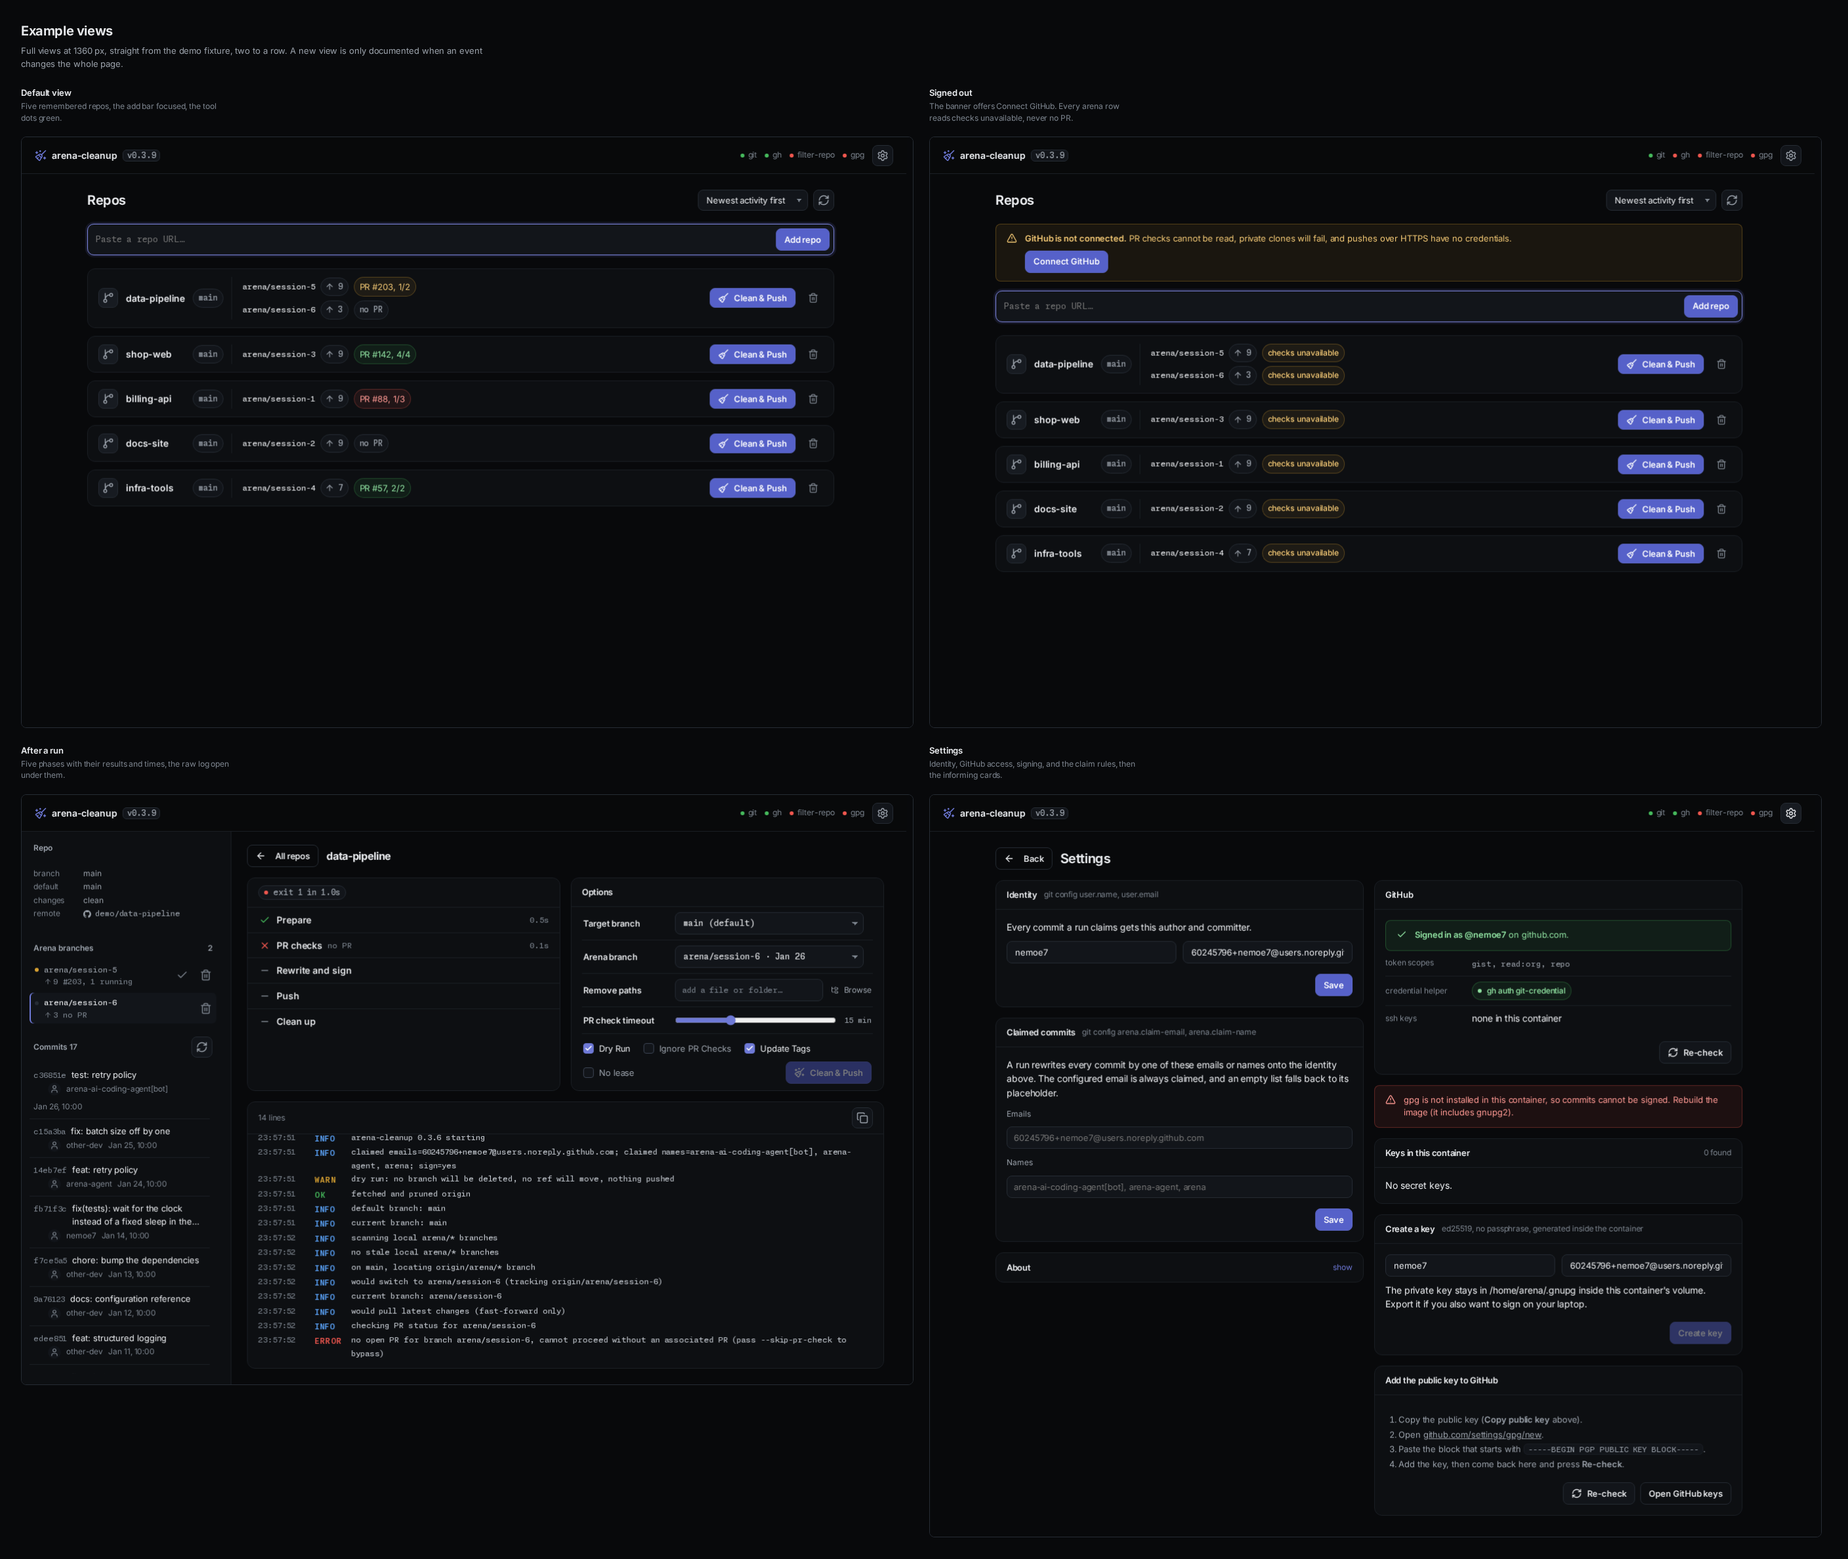
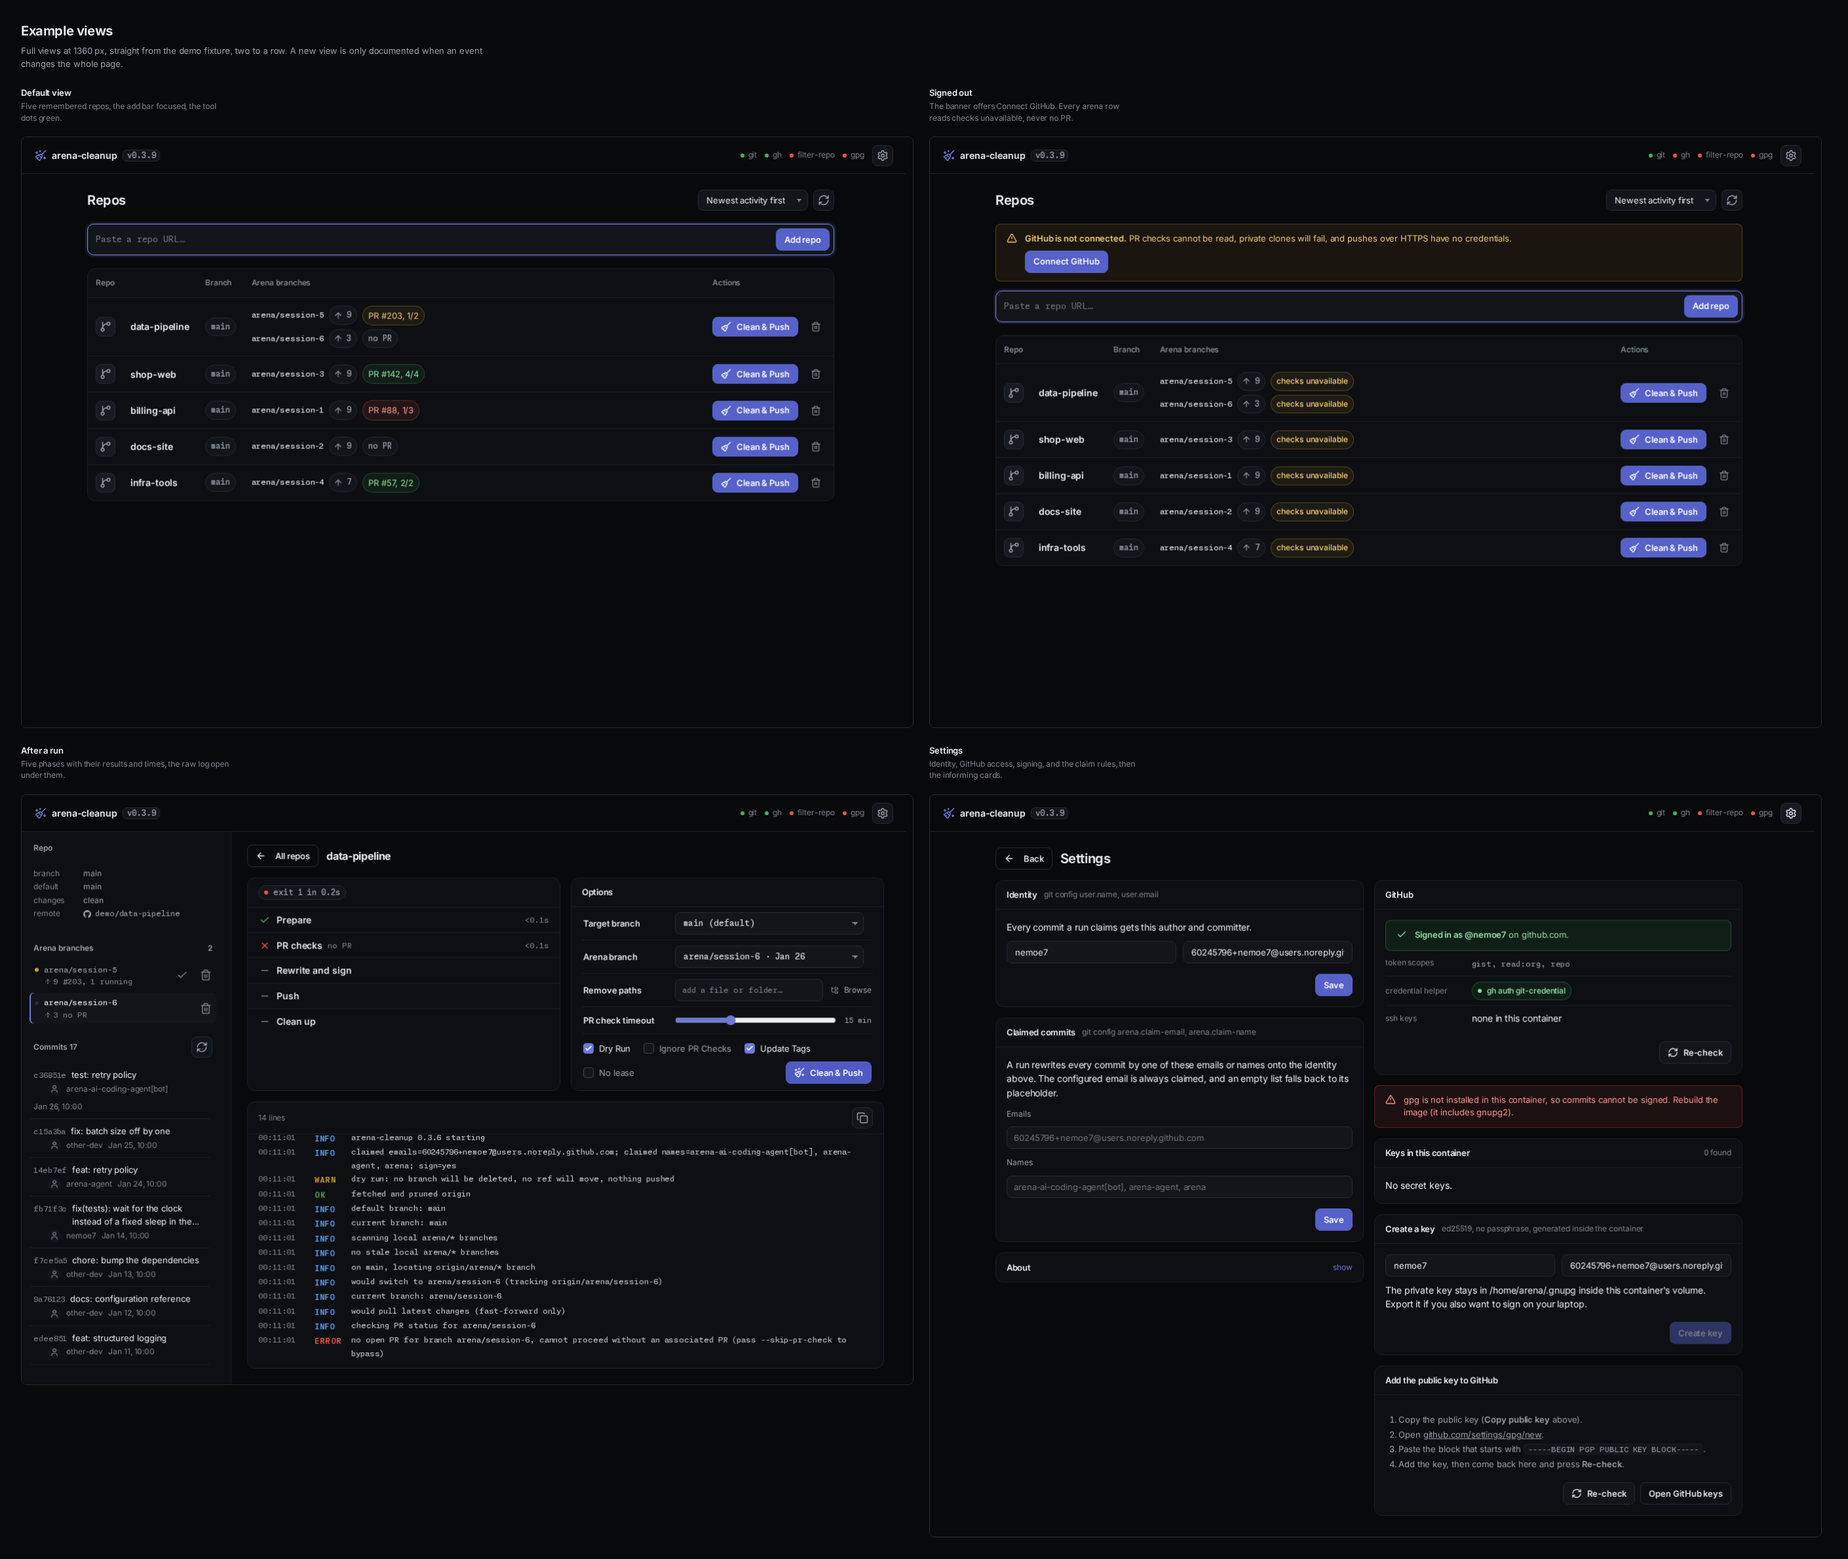
feat(ui): show the repos as a table above 1200 px

diff --git a/ui/static/index.html b/ui/static/index.html
@@ -324,29 +324,34 @@
   .mono-field { font-family: var(--mono); font-size: var(--fs-2); }
   select.field { appearance: none; background-image: linear-gradient(45deg, transparent 50%, var(--dim) 50%), linear-gradient(135deg, var(--dim) 50%, transparent 50%); background-position: right 12px center, right 8px center; background-size: 5px 5px, 5px 5px; background-repeat: no-repeat; padding-right: 24px; }
 
-  /* above 1200 a repo is one row on shared columns: the icon, the name, its branch, the arena rows, the Clean
-     button, and Remove. Content sizes the first columns, the arena area takes the free width */
+  /* above 1200 the repos are one table: a header line, then one row per repo on shared columns, the icon, the
+     name, its branch, the arena rows, the Clean button, and Remove. Content sizes the first columns, the arena
+     cell takes the free width. Cells pad 12 px, 1 px rules split the rows, and a hovered row tints */
   .grid {
-    display: grid; gap: 12px; margin-top: 20px;
+    display: grid; margin-top: 20px;
     grid-template-columns: auto minmax(0, max-content) minmax(0, max-content) minmax(0, 1fr) auto auto;
+    border: 1px solid var(--line); border-radius: 12px; background: var(--surface);
   }
+  .grid-head { grid-column: 1 / -1; display: grid; grid-template-columns: subgrid; color: var(--dim); font-size: var(--fs-1); font-weight: 600; }
+  .grid-head > span { padding: 12px; }
+  .grid-head > span:first-child { grid-column: 1 / 3; }
+  .grid-head > span:last-child { grid-column: 5 / 7; }
   .repo-card {
     grid-column: 1 / -1; display: grid; grid-template-columns: subgrid;
     grid-template-areas: "ico name meta arena actions rm"; align-items: center;
-    border: 1px solid var(--line); border-radius: 12px; background: var(--surface);
-    padding: 12px 16px; text-align: left; cursor: pointer; color: inherit;
+    border-top: 1px solid var(--line); text-align: left; cursor: pointer; color: inherit;
     transition: border-color var(--fast) var(--ease), background var(--fast) var(--ease), transform var(--fast) var(--ease);
   }
-  @media (hover: hover) { .repo-card:hover { border-color: var(--card-hover-line); background: var(--card-hover); } }
+  .repo-card:last-child { border-radius: 0 0 12px 12px; }
+  @media (hover: hover) { .repo-card:hover { background: var(--card-hover); } }
   .repo-name:focus-visible { text-decoration: underline; text-underline-offset: 3px; }
   @media (hover: hover) { .repo-card:hover .repo-name { text-decoration: underline; text-underline-offset: 3px; } }
-  .repo-card:active { transform: translateY(1px); }
   .repo-card.pending { opacity: .6; pointer-events: none; }
   .repo-head { display: contents; }
-  .repo-head > div { grid-area: name; max-width: 280px; }
-  .repo-card > .rm { grid-area: rm; }
+  .repo-head > div { grid-area: name; max-width: 280px; padding: 12px; }
+  .repo-card > .rm { grid-area: rm; margin: 12px 12px 12px 0; }
   .repo-ico {
-    --ico: var(--ico-l); grid-area: ico;
+    --ico: var(--ico-l); grid-area: ico; margin: 12px 0 12px 12px;
     width: 30px; height: 30px; border-radius: 8px; flex: none; font-size: 16px;
     display: grid; place-items: center; background: var(--surface-3);
     border: 1px solid var(--line-2); color: var(--muted);
@@ -355,7 +360,7 @@
   .repo-name { display: block; max-width: 100%; min-height: 24px; margin: 0; padding: 0; border: 0; background: none;
     color: inherit; font: inherit; font-weight: 600; font-size: var(--fs-3); letter-spacing: -.01em; text-align: left;
     overflow-wrap: anywhere; cursor: pointer; }
-  .repo-meta { grid-area: meta; display: flex; flex-wrap: wrap; gap: 6px; align-items: center; }
+  .repo-meta { grid-area: meta; display: flex; flex-wrap: wrap; gap: 6px; align-items: center; padding: 12px; }
   .repo-meta .pill { max-width: 240px; overflow: hidden; text-overflow: ellipsis; }
   .pill {
     --ico: var(--ico-s);
@@ -375,7 +380,7 @@
   .pill.ahead .ico-svg { margin-left: -2px; }
   .dot { width: 6px; height: 6px; border-radius: 50%; background: currentColor; flex: none; }
 
-  .arena-list { grid-area: arena; align-self: stretch; display: flex; flex-direction: column; justify-content: center; gap: 6px; border-left: 1px solid var(--line); padding-left: 16px; }
+  .arena-list { grid-area: arena; align-self: stretch; display: flex; flex-direction: column; justify-content: center; gap: 6px; padding: 12px; }
   /* one line in a row: the name, the ahead chip, and the PR pill. A card breaks it after the name */
   .arena-row { flex: none; display: flex; align-items: center; gap: 8px; font-size: var(--fs-2); min-width: 0; }
   .arena-row .bname { min-width: 0; font-family: var(--mono); font-size: var(--fs-1); color: var(--text); overflow: hidden; text-overflow: ellipsis; white-space: nowrap; }
@@ -392,7 +397,7 @@
 
   /* what the selected task will do, in one sentence */
   /* pinned to the card bottom, so the buttons line up across a grid row */
-  .card-actions { grid-area: actions; display: flex; gap: 8px; align-items: center; }
+  .card-actions { grid-area: actions; display: flex; gap: 8px; align-items: center; padding: 12px; }
   .card-actions .btn { height: 30px; font-size: var(--fs-2); padding: 0 12px; }
   .card-actions .btn.icon { width: 30px; padding: 0; }
 
@@ -776,23 +781,27 @@
     :root { --pad: 16px; }
     .work { grid-template-columns: 1fr; }
     #options-card { order: -1; }
-    .grid { grid-template-columns: repeat(auto-fill, minmax(330px, 1fr)); }
+    .grid { grid-template-columns: repeat(auto-fill, minmax(330px, 1fr)); gap: 12px; border: 0; border-radius: 0; background: none; }
+    .grid-head { display: none; }
     /* a card: the icon, the name, and Remove on top, the arena rows, and the button bottom right.
        The branch chip stays in the rows; an unavailable repo shows its reason where the arena rows go */
     .repo-card {
       grid-column: auto; grid-template-columns: auto minmax(0, 1fr) auto; grid-template-rows: auto 1fr auto;
       grid-template-areas: "ico name rm" "arena arena arena" "actions actions actions";
       gap: 12px 10px; align-items: start; padding: 16px;
+      border: 1px solid var(--line); border-radius: 12px; background: var(--surface);
     }
-    .repo-head > div { max-width: none; }
+    @media (hover: hover) { .repo-card:hover { border-color: var(--card-hover-line); } }
+    .repo-card:active { transform: translateY(1px); }
+    .repo-head > div { max-width: none; padding: 0; }
     /* the icon, the name, and Remove share one centre line, 44 px Remove on a phone included */
-    .repo-ico, .repo-head > div, .repo-card > .rm { align-self: center; }
-    .repo-meta { grid-area: arena; align-self: start; }
+    .repo-ico, .repo-head > div, .repo-card > .rm { align-self: center; margin: 0; }
+    .repo-meta { grid-area: arena; align-self: start; padding: 0; }
     .repo-meta.branch { display: none; }
     .repo-meta .pill { max-width: 100%; }
-    .arena-list { justify-content: flex-start; border-left: 0; padding-left: 0; border-top: 1px solid var(--line); padding-top: 12px; }
+    .arena-list { justify-content: flex-start; padding: 12px 0 0; border-top: 1px solid var(--line); }
     .arena-row { flex-direction: column; align-items: stretch; gap: 4px; }
-    .card-actions { align-self: end; justify-self: end; }
+    .card-actions { align-self: end; justify-self: end; padding: 0; }
   }
   @media (max-width: 56.25em) {
     /* One column: the run first, then the sidebar with the facts and the commits. */
@@ -1621,11 +1630,14 @@
     return state.repos.map((repo, at) => ({ repo, at })).sort(first).map((x) => x.repo);
   }
 
+  // the header line of the table above 1200: decorative, the rows name their own parts
+  const gridHead = () => el("div", { class: "grid-head", "aria-hidden": "true" },
+    ...["Repo", "Branch", "Arena branches", "Actions"].map((t) => el("span", {}, t)));
   function renderGrid() {
     const grid = $("repo-grid");
     const first = grid.children.length === 0;
-    grid.replaceChildren(...sortedRepos().map(repoCard));
-    if (first) enter([...grid.children], { amount: 0.12 });
+    grid.replaceChildren(gridHead(), ...sortedRepos().map(repoCard));
+    if (first) enter([...grid.children].slice(1), { amount: 0.12 });
     renderChecks();
   }
 

diff --git a/docs/boards/flow.html b/docs/boards/flow.html
@@ -4,7 +4,7 @@
 <div class="col">
 <div>
 <p class="lbl">Dashboard</p>
-<p class="sub">Entry at /. Every remembered repo is one card.</p>
+<p class="sub">Entry at /. Every remembered repo is one table row, a card below 1200 px.</p>
 </div>
 <div class="scr wide">
 <div class="bar">
@@ -17,14 +17,13 @@
 <div class="blk soft lbl" style="width:300px">paste a GitHub URL or a path</div>
 <div class="blk hi lbl" style="width:60px">Add</div>
 </div>
-<div class="bar">
-<div class="blk lbl" style="min-height:84px;width:128px">repo card</div>
-<div class="blk lbl" style="min-height:84px;width:128px">repo card</div>
-<div class="blk lbl" style="min-height:84px;width:128px">repo card</div>
+<div class="blk soft lbl" style="min-height:22px;width:384px">Repo · Branch · Arena branches · Actions</div>
+<div class="blk lbl" style="min-height:28px;width:384px">repo row</div>
+<div class="blk lbl" style="min-height:28px;width:384px">repo row</div>
+<div class="blk lbl" style="min-height:28px;width:384px">repo row</div>
 </div>
 </div>
-</div>
-<div class="arrow"><b><span class="ico-svg" data-icon="chevron-right" aria-hidden="true"></span></b>card click or Enter</div>
+<div class="arrow"><b><span class="ico-svg" data-icon="chevron-right" aria-hidden="true"></span></b>row click or Enter</div>
 <div class="col">
 <div>
 <p class="lbl">Repo</p>

diff --git a/tests/e2e/test_rows.py b/tests/e2e/test_rows.py
@@ -1,4 +1,4 @@
-"""Dashboard rows: above 1200 a repo is one full-width row, at 1200 and below it is a card."""
+"""Dashboard rows: above 1200 the repos are one table, at 1200 and below they are cards."""
 
 from __future__ import annotations
 
@@ -22,10 +22,23 @@ PROBE = """(card) => {
   };
   const rows = [...card.querySelectorAll('.arena-row')].map(box);
   const grid = getComputedStyle(card.parentElement).gridTemplateColumns.split(' ').length;
+  const head = card.parentElement.querySelector('.grid-head');
+  const style = getComputedStyle(card);
+  const pad = (s) => getComputedStyle(card.querySelector(s)).padding;
   return {
     grid,
     width: box(card).width,
     gridWidth: box(card.parentElement).width,
+    gridInner: card.parentElement.clientWidth,
+    gridBorder: getComputedStyle(card.parentElement).borderTopWidth,
+    headShown: Boolean(head) && getComputedStyle(head).display !== 'none',
+    headLabels: head ? [...head.children].map((e) => e.textContent) : [],
+    headLefts: head ? [...head.children].map((e) => box(e).left + 12) : [],
+    rule: [style.borderTopWidth, style.borderLeftWidth, style.borderRadius],
+    pads: [pad('.repo-head > div'), pad('.repo-meta'), pad('.arena-list'), pad('.card-actions')],
+    branchLeft: box(card.querySelector('.repo-meta .pill')).left,
+    cleanLeft: box(card.querySelector('.card-actions .btn')).left,
+    bnameLeft: box(card.querySelector('.arena-row .bname')).left,
     rowTops: rows.map((r) => r.top),
     rowLefts: rows.map((r) => r.left),
     bname: mid(card.querySelector('.arena-row .bname')),
@@ -58,10 +71,23 @@ def probe(browser: Any, demo: Demo, width: int) -> dict[str, Any]:
     context.close()
 
 
-def test_above_1200_a_repo_is_one_row(browser: Any, demo: Demo) -> None:
+def test_above_1200_a_repo_is_one_table_row(browser: Any, demo: Demo) -> None:
   row = probe(browser, demo, 1201)
   assert row["grid"] == 6, "one column per cell, shared by every row"
-  assert row["width"] == row["gridWidth"], "a full-width row"
+  assert row["width"] == row["gridInner"], "a full-width row inside the table frame"
+  assert row["gridBorder"] == "1px", "one frame around the table"
+  # a header line names each column, and its labels start where cell content does
+  assert row["headShown"]
+  assert row["headLabels"] == ["Repo", "Branch", "Arena branches", "Actions"]
+  assert row["headLefts"] == [
+    row["icoLeft"],
+    row["branchLeft"],
+    row["bnameLeft"],
+    row["cleanLeft"],
+  ]
+  # 1 px rules split the rows, no card border or radius, and 12 px cells
+  assert row["rule"] == ["1px", "0px", "0px"]
+  assert row["pads"] == ["12px"] * 4
   assert len(row["rowTops"]) == 2
   assert row["rowTops"][0] < row["rowTops"][1], "arena rows stacked"
   assert row["rowLefts"][0] == row["rowLefts"][1]
@@ -75,10 +101,26 @@ def test_above_1200_a_repo_is_one_row(browser: Any, demo: Demo) -> None:
   assert row["cardRight"] - row["removeRight"] <= 17
 
 
+def test_a_hovered_table_row_tints(desktop: Walker) -> None:
+  page = desktop.page
+  desktop.goto(600)
+  page.wait_for_selector(f"{CARD} .arena-row .arena-tail .pill")
+  page.mouse.move(0, 0)
+  page.wait_for_timeout(200)
+  bg = "e => getComputedStyle(e).backgroundColor"
+  clear = {"rgba(0, 0, 0, 0)", "transparent"}
+  assert page.eval_on_selector(CARD, bg) in clear, "a resting row has no own surface"
+  page.hover(f"{CARD} .bname")
+  page.wait_for_timeout(200)
+  assert page.eval_on_selector(CARD, bg) not in clear, "the pointer tints the row"
+
+
 def test_at_1200_the_repos_are_cards(browser: Any, demo: Demo) -> None:
   card = probe(browser, demo, 1200)
   assert card["grid"] > 1
   assert card["width"] < card["gridWidth"] / 2
+  assert not card["headShown"], "no header line over cards"
+  assert card["gridBorder"] == "0px" and card["rule"][2] == "12px", "a card, not a row"
   assert card["rowTops"][0] < card["rowTops"][1], "arena rows stacked"
   assert card["rowLefts"][0] == card["rowLefts"][1]
   assert card["bname"]["y"] < card["tail"]["y"], "two lines: the name over the pills"

diff --git a/docs/design.md b/docs/design.md
@@ -35,7 +35,8 @@ The one design record for the arena-cleanup web app. Its sections follow the nem
 ## Screens and states
 
 - Dashboard: sort select and Reload button in the head, add bar.
-  - Rows and cards: one repo row per repo above 1200 px, repo cards at 1200 px and below.
+  - Table and cards: one table with one row per repo above 1200 px, repo cards at 1200 px and below.
+    - The header line reads Repo, Branch, Arena branches, and Actions. Rules of 1 px split the rows, cells pad 12 px, and a hovered row tints.
     - A row or card shows the branch.
     - The repo name is a button that opens the repo, and a click on its card body does the same.
     - The card itself has no role.
@@ -209,8 +210,8 @@ The one design record for the arena-cleanup web app. Its sections follow the nem
   - Push reads `moving`, `pushing`, then `pushed X tags`, and stays empty without a tag.
     - A dry run reads `would sign` and `would move`.
     - Before a count the row carries the name alone.
-- `repo-card`: above 1200 px a subgrid row on the columns of `grid`, so the columns align across rows.
-  - Row, left to right: the icon, name, branch pill, and arena rows stacked behind a hairline.
+- `repo-card`: above 1200 px a subgrid row on the columns of `grid`, the table, so the columns align across rows under the header line.
+  - Row, left to right: the icon, name, branch pill, and arena rows stacked in one cell.
     - Then Clean, and Remove with the trash glyph.
     - The arena area takes the free width, so Clean and Remove sit at the right edge.
     - In a row an arena row is one line: the name, the ahead chip, and the PR pill.
@@ -511,4 +512,6 @@ The one design record for the arena-cleanup web app. Its sections follow the nem
 - Accepted 2026-10-24: the phase rows start on the engine's own lines. A word test matched branch and repo names, so a name like arena-cleanup moved a run to Clean up and left the middle rows skipped.
 - Accepted 2026-10-24: the server keeps 32 finished jobs with steps and log by job id. The page keeps 20 loaded details for a reopen.
 - Accepted 2026-10-24: the design boards render through `nuu board -T design` from `docs/boards.json`, and the project script that drew them is gone. The boards keep their markup, chrome, and sizes.
+- Accepted 2026-10-24: above 1200 px the repos are one table, not row-shaped cards, and the cards below 1200 px keep their shape.
+  - A header line reads Repo, Branch, Arena branches, and Actions. Rules of 1 px split the rows, cells pad 12 px, a hovered row tints, and the Sort select stays.
   - A running job refreshes on every poll, and its first read after the end replaces the short log.

diff --git a/CHANGELOG.md b/CHANGELOG.md
@@ -25,6 +25,9 @@ and the project uses [Semantic Versioning](https://semver.org/spec/v2.0.0.html).
   `docs/boards.json` and the fragments in `docs/boards/`. The project script
   `scripts/design_boards.py` is gone, and `scripts/walk.py --views` shoots
   the four example views.
+- Above 1200 px the dashboard shows one table: a header line, one row per
+  repo, 1 px rules, 12 px cells, and a hover tint. The cards at 1200 px and
+  below keep their shape.
 
 ### Fixed
 
